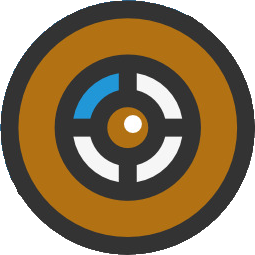
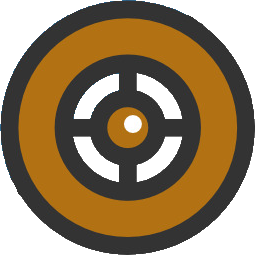
Fix cannon graphics
In reference to issue #2

diff --git a/src/Cannon.java b/src/Cannon.java
@@ -2,6 +2,7 @@ import processing.core.PImage;
 
 public class Cannon {
 	int cannonX, cannonY;
-	static String imagePath = "data/ketchup.png";
+	static String barrelPath = "data/cannonBarrel.png";
+	static String basePath = "data/cannonBase.png";
 	PImage cannonBase, cannonBarrel;
 }	
